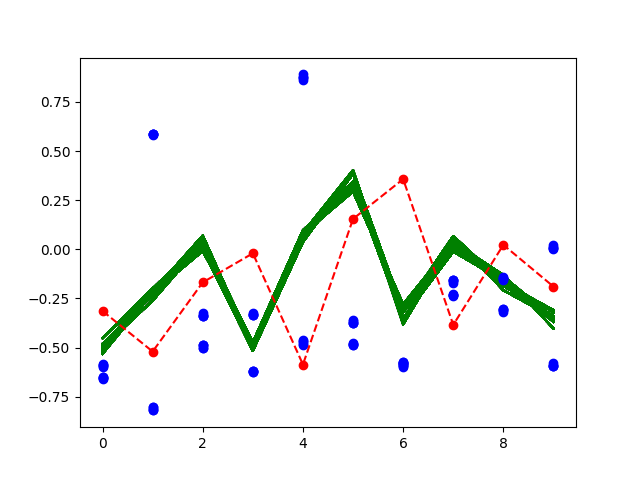
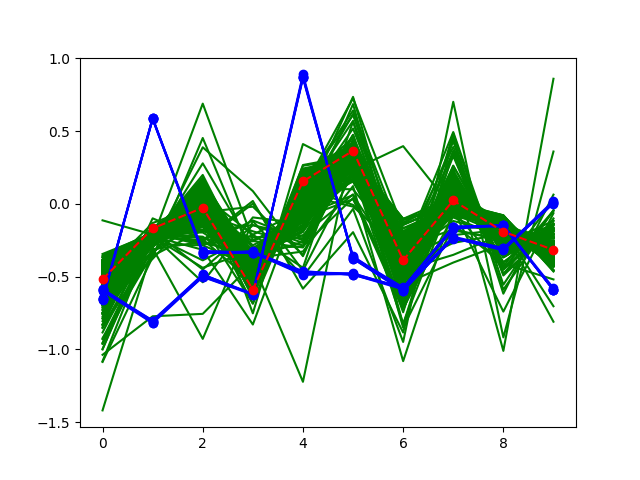
getting there with fitting the graphs

diff --git a/ver2.py b/ver2.py
@@ -263,14 +263,15 @@ def cohomologies(layers):
     for funclayer in layers:
         kerims.append(chec_chomology(funclayer))
         if len(kerims) >= 2:
-            # this has incorrect sizing MAYBE: guass kernel?
             cohol.append(quot_space(kerims[-1][0], linalg.inv(kerims[-2][1])))
 
     # append R space
-    cohol.append(quot_space(kerims[0][1], np.ones_like(kerims[0][1])))
-    # don't forget to roll
-    imcohol = shifts(np.array(cohol), -1)
-    cech = np.sum(np.sum(np.sum(imcohol, axis=1), axis=1), axis=1)
+    start = [quot_space(kerims[0][1], np.ones_like(kerims[0][1]))]
+    # don't forget to reverse!
+    [start.append(c) for c in cohol]
+    imcohol = np.array(start)
+
+    cech = np.prod(np.log(np.sum(np.e ** imcohol, axis=1)),axis=1)
 
     return cech 
 
@@ -325,14 +326,15 @@ def create_sols_from_system(solved_system):
     return np.array(sols)
 
 
-def sheafify(sheafs, forwards=True):
+def sheafify(sheafs, forwards=False):
     from scipy.fft import irfftn, rfftn
+    #inverse the fourier transform domain
     sheafifed = None
     # either will throw error if used in wrong use case
     if not forwards:
-        sheafifed = np.einsum("ij -> i", rfftn(sheafs))
-    elif forwards:
         sheafifed = np.einsum("ij -> i", irfftn(sheafs))
+    elif forwards:
+        sheafifed = np.einsum("ij -> i", rfftn(sheafs))
     return sheafifed
 
  
@@ -374,6 +376,8 @@ def model_create_equation(model_dir, tex_save, training_data):
         # add output target
         targets[-1] = model.output_shape[-1] 
         shapes = complete_bias(shapes, targets) 
+
+
         # fft calculation goes through here
         solved_system = solve_system(activations, layers)
         # lets add the input vector
@@ -382,13 +386,12 @@ def model_create_equation(model_dir, tex_save, training_data):
         # convert from matrix
 
         # sheafify 
-        sheafs = np.dot(solved_system, np.roll(sols, -1))
+        sheafs = np.dot(solved_system, sols)
 
         sort_avg = sorted(
             output_aggregator(model, training_data), key= lambda tup: tup[0])
  
-        sheafifed = sheafify(np.tensordot(sols.T, solved_system.T, axes=1))
-
+        sheafifed = sheafify(sols.T * solved_system)
         tester(model, shapes[-1], sheafifed, np.array(sheafs), sort_avg)
 
 def tester(model, outshape, sheafout, sheafs, sort_avg):
@@ -409,7 +412,7 @@ def tester(model, outshape, sheafout, sheafs, sort_avg):
     import matplotlib.pyplot as plt
     # plt.plot(prelims) 
     [plt.plot(template, np.transpose(prelim), "g-") for prelim in prelims]
-    [plt.plot(template, np.transpose(avo), "bo") for avo in avg_outs]
+    [plt.plot(template, np.transpose(avo), "bo-") for avo in avg_outs]
     plt.plot(template, np.transpose(final_test.numpy()), "ro--")
 
     plt.savefig("out.png")
